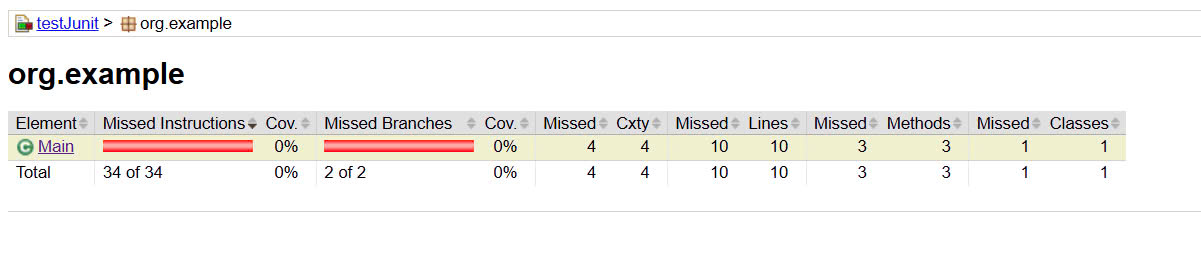
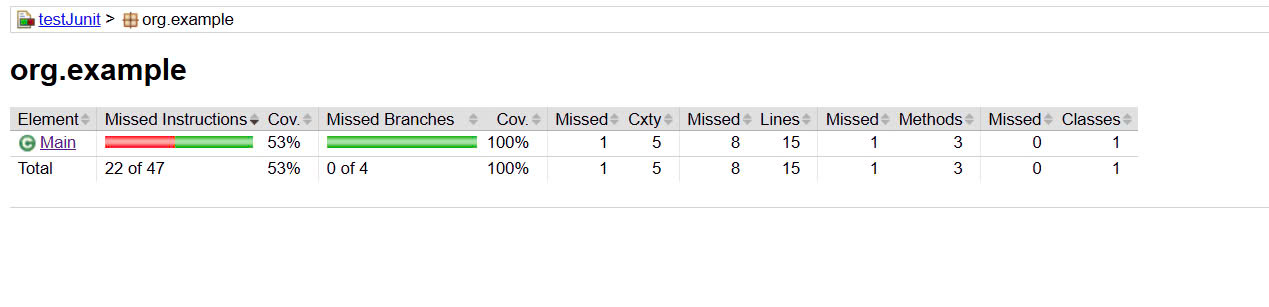
Update Fix

diff --git a/src/test/java/TestMain.java b/src/test/java/TestMain.java
@@ -1,27 +1,43 @@
 import org.example.Main;
 import org.junit.jupiter.api.Test;
-
 import static org.junit.jupiter.api.Assertions.assertEquals;
+import static org.junit.jupiter.api.Assertions.assertThrows;
 
 public class TestMain {
+
     @Test
-    public void testSum() {
+    public void testCalculateSum() {
         Main calculator = new Main();
 
-        // Test case 1: Tính tổng từ 1 đến 5, kết quả là 15 (1+2+3+4+5)
-        int result = calculator.calculateSum(5);
-        assertEquals(15, result);
+        // Kiểm tra tổng các số từ 1 đến 10
+        assertEquals(55, calculator.calculateSum(10));
 
-        // Test case 2: Tính tổng từ 1 đến 10, kết quả là 55 (1+2+3+...+10)
-        result = calculator.calculateSum(10);
-        assertEquals(55, result);
+        // Kiểm tra tổng các số từ 1 đến 5
+        assertEquals(15, calculator.calculateSum(5));
 
-        // Test case 3: Tính tổng từ 1 đến 0, kết quả là 0
-        result = calculator.calculateSum(0);
-        assertEquals(0, result);
+        // Kiểm tra tổng các số từ 1 đến 0 (kết quả là 0)
+        assertEquals(0, calculator.calculateSum(0));
 
-        // Test case 4: Tính tổng từ 1 đến 1, kết quả là 1
-        result = calculator.calculateSum(1);
-        assertEquals(1, result);
+        // Kiểm tra tổng các số từ 1 đến 1 (kết quả là 1)
+        assertEquals(1, calculator.calculateSum(1));
+    }
+
+    @Test
+    public void testCalculateSumWithNegativeNumber() {
+        Main calculator = new Main();
+
+        // Kiểm tra khi số âm được đưa vào, mong đợi IllegalArgumentException
+        assertThrows(IllegalArgumentException.class, () -> {
+            calculator.calculateSum(-5);
+        });
+    }
+
+    @Test
+    public void testCalculateSumWithInvalidLoop() {
+        Main calculator = new Main();
+
+        // Kiểm tra khi vòng lặp bị sai (n < i)
+        int result = calculator.calculateSum(0);
+        assertEquals(0, result);  // Vòng lặp không chạy vì i > n
     }
 }

diff --git a/src/main/java/org/example/Main.java b/src/main/java/org/example/Main.java
@@ -3,7 +3,12 @@ package org.example;
 //TIP To <b>Run</b> code, press <shortcut actionId="Run"/> or
 // click the <icon src="AllIcons.Actions.Execute"/> icon in the gutter.
 public class Main {
+    // Hàm tính tổng các số từ 1 đến n
     public int calculateSum(int n) {
+        if (n < 0) {
+            throw new IllegalArgumentException("Giá trị n không hợp lệ. n phải là số nguyên dương.");
+        }
+
         int sum = 0;
         for (int i = 1; i <= n; i++) {
             sum += i;
@@ -11,12 +16,16 @@ public class Main {
         return sum;
     }
 
+    // Hàm main thực thi chương trình
     public static void main(String[] args) {
         Main calculator = new Main();
 
-        int n = 10; // Tính tổng từ 1 đến n
-        int result = calculator.calculateSum(n);
-
-        System.out.println("Tổng các số từ 1 đến " + n + " là: " + result);
+        int n = 10; // Tính tổng từ 1 đến 10
+        try {
+            int result = calculator.calculateSum(n);
+            System.out.println("Tổng các số từ 1 đến " + n + " là: " + result);
+        } catch (IllegalArgumentException e) {
+            System.out.println(e.getMessage());
+        }
     }
 }
